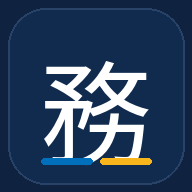
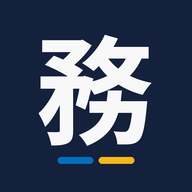
Add files via upload
station-assistant-mobile-github-v5.18.0

diff --git a/index.html b/index.html
@@ -11,8 +11,8 @@
 <link rel="manifest" href="./manifest.webmanifest">
 <link rel="apple-touch-icon" href="./icons/icon-180.png">
 <title>站務工作助手｜手機離線版</title>
-<script src="./vendor/pdf.min.js?v=5.17.0"></script>
-<script src="./vendor/xlsx.full.min.js?v=5.17.0"></script>
+<script src="./vendor/pdf.min.js?v=5.18.0"></script>
+<script src="./vendor/xlsx.full.min.js?v=5.18.0"></script>
 <style>
   :root{
     --bg:#f1f4f8; --card:#ffffff; --border:#dce3ec; --border-strong:#bcc8d7;
@@ -453,7 +453,7 @@
   }
   @media (max-width:520px){.procedure-card-grid{grid-template-columns:1fr 1fr;}}
 
-  /* v5.17.0 mobile shell: real-device full-screen PWA, preserve iPhone safe areas */
+  /* v5.18.0 mobile shell: real-device full-screen PWA, preserve iPhone safe areas */
   @media (max-width:899px){
     html,body{width:100%;height:100%;overflow:hidden;overscroll-behavior:none;}
     body{display:block!important;margin:0!important;padding:0!important;background:var(--bg)!important;min-height:100vh!important;}
@@ -478,7 +478,7 @@
   .event-participant-list{display:grid;gap:0}.event-person-card{display:grid!important;grid-template-columns:minmax(86px,130px) minmax(0,1fr);align-items:start!important;gap:10px!important;padding:10px 4px!important;border:0!important;border-bottom:.5px solid var(--border)!important;border-radius:0!important}.event-person-card:last-child{border-bottom:0!important}.event-person-detail{display:flex;gap:10px;flex-wrap:wrap;min-width:0}.event-person-detail span{white-space:normal!important;overflow:visible!important;text-overflow:clip!important}.event-person-location{color:var(--text-muted)!important}.event-person-edit-title{display:none;font-weight:750;color:var(--accent-text)}.event-more{display:none}.modal-close-btn{border:0;background:none;font-size:18px;min-width:44px;min-height:44px}
 
 
-  /* v5.17.0 mobile UX */
+  /* v5.18.0 mobile UX */
   @media(max-width:899px){
     .modal-overlay{overflow:hidden!important}.modal-sheet{max-width:100%!important;overflow:hidden!important}.modal-body{overflow-x:hidden!important;max-width:100%!important;box-sizing:border-box!important}
     .pdf-reader-shell .modal-header{padding-top:calc(10px + env(safe-area-inset-top))!important;padding-left:max(14px,env(safe-area-inset-left))!important;padding-right:max(10px,env(safe-area-inset-right))!important;min-height:calc(54px + env(safe-area-inset-top))!important}.pdf-reader-shell .modal-header>span{min-width:0;white-space:nowrap;overflow:hidden;text-overflow:ellipsis;font-size:13px!important}.pdf-reader-shell #sop-pdf-close{min-width:44px!important;min-height:44px!important;padding:0!important;margin-left:6px!important;display:grid!important;place-items:center!important}
@@ -517,7 +517,7 @@
   .search-page-group{margin-left:0;margin-right:0}
 
 
-  /* v5.17.0 iPhone 全頁面版面校正：safe-area 只計算一次，底部導覽不再漂浮或遮住內容 */
+  /* v5.18.0 iPhone 全頁面版面校正：safe-area 只計算一次，底部導覽不再漂浮或遮住內容 */
   @media(max-width:899px){
     :root{--mobile-nav-h:68px;--mobile-top-h:56px;}
     html,body{width:100%;height:100%;height:100dvh;overflow:hidden!important;}
@@ -559,18 +559,18 @@
     <button class="tab-btn" data-tab="personnel"><span class="icon">♙</span>事件/人員</button>
     <button class="tab-btn" data-tab="library"><span class="icon">▤</span>資料管理</button>
     <button class="tab-btn" data-tab="settings"><span class="icon">⚙</span>設定</button>
-    <div class="desktop-version">手機 PWA 測試版 v5.17.0 · 資料僅存本機</div>
+    <div class="desktop-version">手機 PWA 測試版 v5.18.0 · 資料僅存本機</div>
   </div>
 </div>
 
 <script>
-/* v5.17.0 2026-09-09：
+/* v5.18.0 2026-09-09：
    1) 修正文件名稱命中會把整份文件所有段落都算命中的問題；正文命中頁／段落只計實際符合；
    2) 搜尋段落點入 PDF 前以該段正文重新驗證實體 PDF 頁，避免搜尋索引與原始 PDF 定位錯位；
    3) 常用程序待確認閱讀器新增「確認頁碼正確」，確認後清除提醒並保存新版正文快照；
    4) 事件參與人員解析支援「小班＋值班站長／值班站務專員」等班別職稱；
    5) 維持修訂／異動頁排除、文字模式階層、表格與 SOP 安全更新規則。 */
-pdfjsLib.GlobalWorkerOptions.workerSrc = './vendor/pdf.worker.min.js?v=5.17.0';
+pdfjsLib.GlobalWorkerOptions.workerSrc = './vendor/pdf.worker.min.js?v=5.18.0';
 
 /* ---------- IndexedDB layer ---------- */
 const DB_NAME = 'stationAssistantDB';
@@ -3924,7 +3924,7 @@ function renderSettings(){
       <div class="card settings-card" id="settings-search"><p class="panel-title">搜尋設定</p><p class="panel-note">管理智慧搜尋詞庫、同義詞及查無結果紀錄。</p><span class="badge">${cache.synonymGroups.length} 組詞庫</span></div>
       <div class="card settings-card" id="settings-data"><p class="panel-title">資料與儲存</p><p class="panel-note">完整備份、還原與跨裝置資料移轉。</p><span class="badge">最近備份：${escapeHtml(lastBackup)}</span></div>
       <div class="card settings-card" id="settings-history"><p class="panel-title">搜尋歷史</p><p class="panel-note">目前保留最近 ${getSearchHistory().length} 筆搜尋，可在此清除。</p><button class="secondary" id="settings-clear-history">清除搜尋歷史</button></div>
-      <div class="card settings-card" id="settings-version"><p class="panel-title">版本資訊</p><p class="panel-note">本版本延續手機版 v5.16.0 資料結構，資料維持瀏覽器本機離線。</p><dl class="version-info"><dt>程式版本</dt><dd>v5.17.0 測試版</dd><dt>基準版本</dt><dd>手機版 v5.16.0</dd><dt>更新日期</dt><dd>2026-09-09</dd><dt>資料格式</dt><dd>IndexedDB v4</dd><dt>本次更新</dt><dd>全頁面校正 iPhone safe-area、頂部狀態列與底部功能列；所有主要關閉按鈕統一 44×44 觸控區；資料管理視窗不再被功能列遮住；工作資料移轉加入事件與人員；App 圖示「務」改為與「蔵」相近的字型比例與垂直基準。保留 v5.16.0 大型 PDF 低記憶體匯入修正。</dd></dl></div>
+      <div class="card settings-card" id="settings-version"><p class="panel-title">版本資訊</p><p class="panel-note">本版本延續手機版 v5.16.0 資料結構，資料維持瀏覽器本機離線。</p><dl class="version-info"><dt>程式版本</dt><dd>v5.18.0 測試版</dd><dt>基準版本</dt><dd>手機版 v5.16.0</dd><dt>更新日期</dt><dd>2026-09-09</dd><dt>資料格式</dt><dd>IndexedDB v4</dd><dt>本次更新</dt><dd>全頁面校正 iPhone safe-area、頂部狀態列與底部功能列；所有主要關閉按鈕統一 44×44 觸控區；資料管理視窗不再被功能列遮住；工作資料移轉加入事件與人員；App 圖示「務」改為與「蔵」相近的字型比例與垂直基準。保留 v5.16.0 大型 PDF 低記憶體匯入修正。</dd></dl></div>
     </div>`;
   document.getElementById('settings-search').onclick=openSynonymManager;
   document.getElementById('settings-data').onclick=openDataMgmt;
@@ -3984,7 +3984,7 @@ function openDataMgmt(){
     <div class="modal-header"><span style="font-weight:500;">資料管理</span>
       <button id="dm-close" class="modal-close-btn" aria-label="關閉">✕</button></div>
     <div class="modal-body">
-      <p class="tiny-muted" style="margin-top:0;">手機 PWA 測試版 v5.17.0・2026.09.09</p>
+      <p class="tiny-muted" style="margin-top:0;">手機 PWA 測試版 v5.18.0・2026.09.09</p>
       <p class="muted">「工作資料」包含常用程序、通告、事件與人員，可手動傳到另一台裝置匯入；各裝置資料不會自動同步。</p>
       <button class="primary" id="dm-transfer-export" style="width:100%;margin-bottom:10px;">匯出工作資料</button>
       <button class="secondary" id="dm-transfer-import" style="width:100%;margin-bottom:18px;">匯入工作資料</button>

diff --git a/sw.js b/sw.js
@@ -1,11 +1,11 @@
-const CACHE_NAME = 'station-assistant-mobile-github-v5.17.0';
+const CACHE_NAME = 'station-assistant-mobile-github-v5.18.0';
 const APP_SHELL = [
   './',
   './index.html',
   './manifest.webmanifest',
-  './vendor/pdf.min.js?v=5.17.0',
-  './vendor/pdf.worker.min.js?v=5.17.0',
-  './vendor/xlsx.full.min.js?v=5.17.0',
+  './vendor/pdf.min.js?v=5.18.0',
+  './vendor/pdf.worker.min.js?v=5.18.0',
+  './vendor/xlsx.full.min.js?v=5.18.0',
   './icons/icon-180.png',
   './icons/icon-192.png',
   './icons/icon-512.png'

diff --git a/CHANGELOG.md b/CHANGELOG.md
@@ -1,3 +1,9 @@
+## v5.18.0｜2026-09-09
+- App 主畫面圖示「務」依 HOME HANGAR「蔵」正式規格重新校正：1024×1024 深海軍藍 #14213D、Noto Sans CJK JP Bold/Black 系列視覺、字級比例約 630px、字形中心 X=49.4%／Y=47.1%。
+- 「務」不再沿用 v5.17.0 偏下的位置，改與「蔵」相同的字級、視覺中心與略向上基準。
+- 底部藍／黃雙色條沿用「蔵」橫條的 Y=837、高約 36px 規格；站務助手維持板南線藍與中和新蘆線黃橘識別。
+- 本版只調整 App icon 與版本快取，不變更 v5.17.0 全頁面 safe-area、工作資料匯出／匯入、大型 PDF 低記憶體匯入及 IndexedDB v4。
+
 ## v5.17.0｜2026-09-09
 - 全頁面重新校正 iPhone standalone PWA 的 top/bottom safe-area：頂部標題不再與狀態列重疊，底部五項功能列貼回實際底部安全區。
 - 主內容與底部功能列改為同一個 100dvh Grid 版面，不再用 absolute 導覽列造成整頁上移與底部大塊空白。
